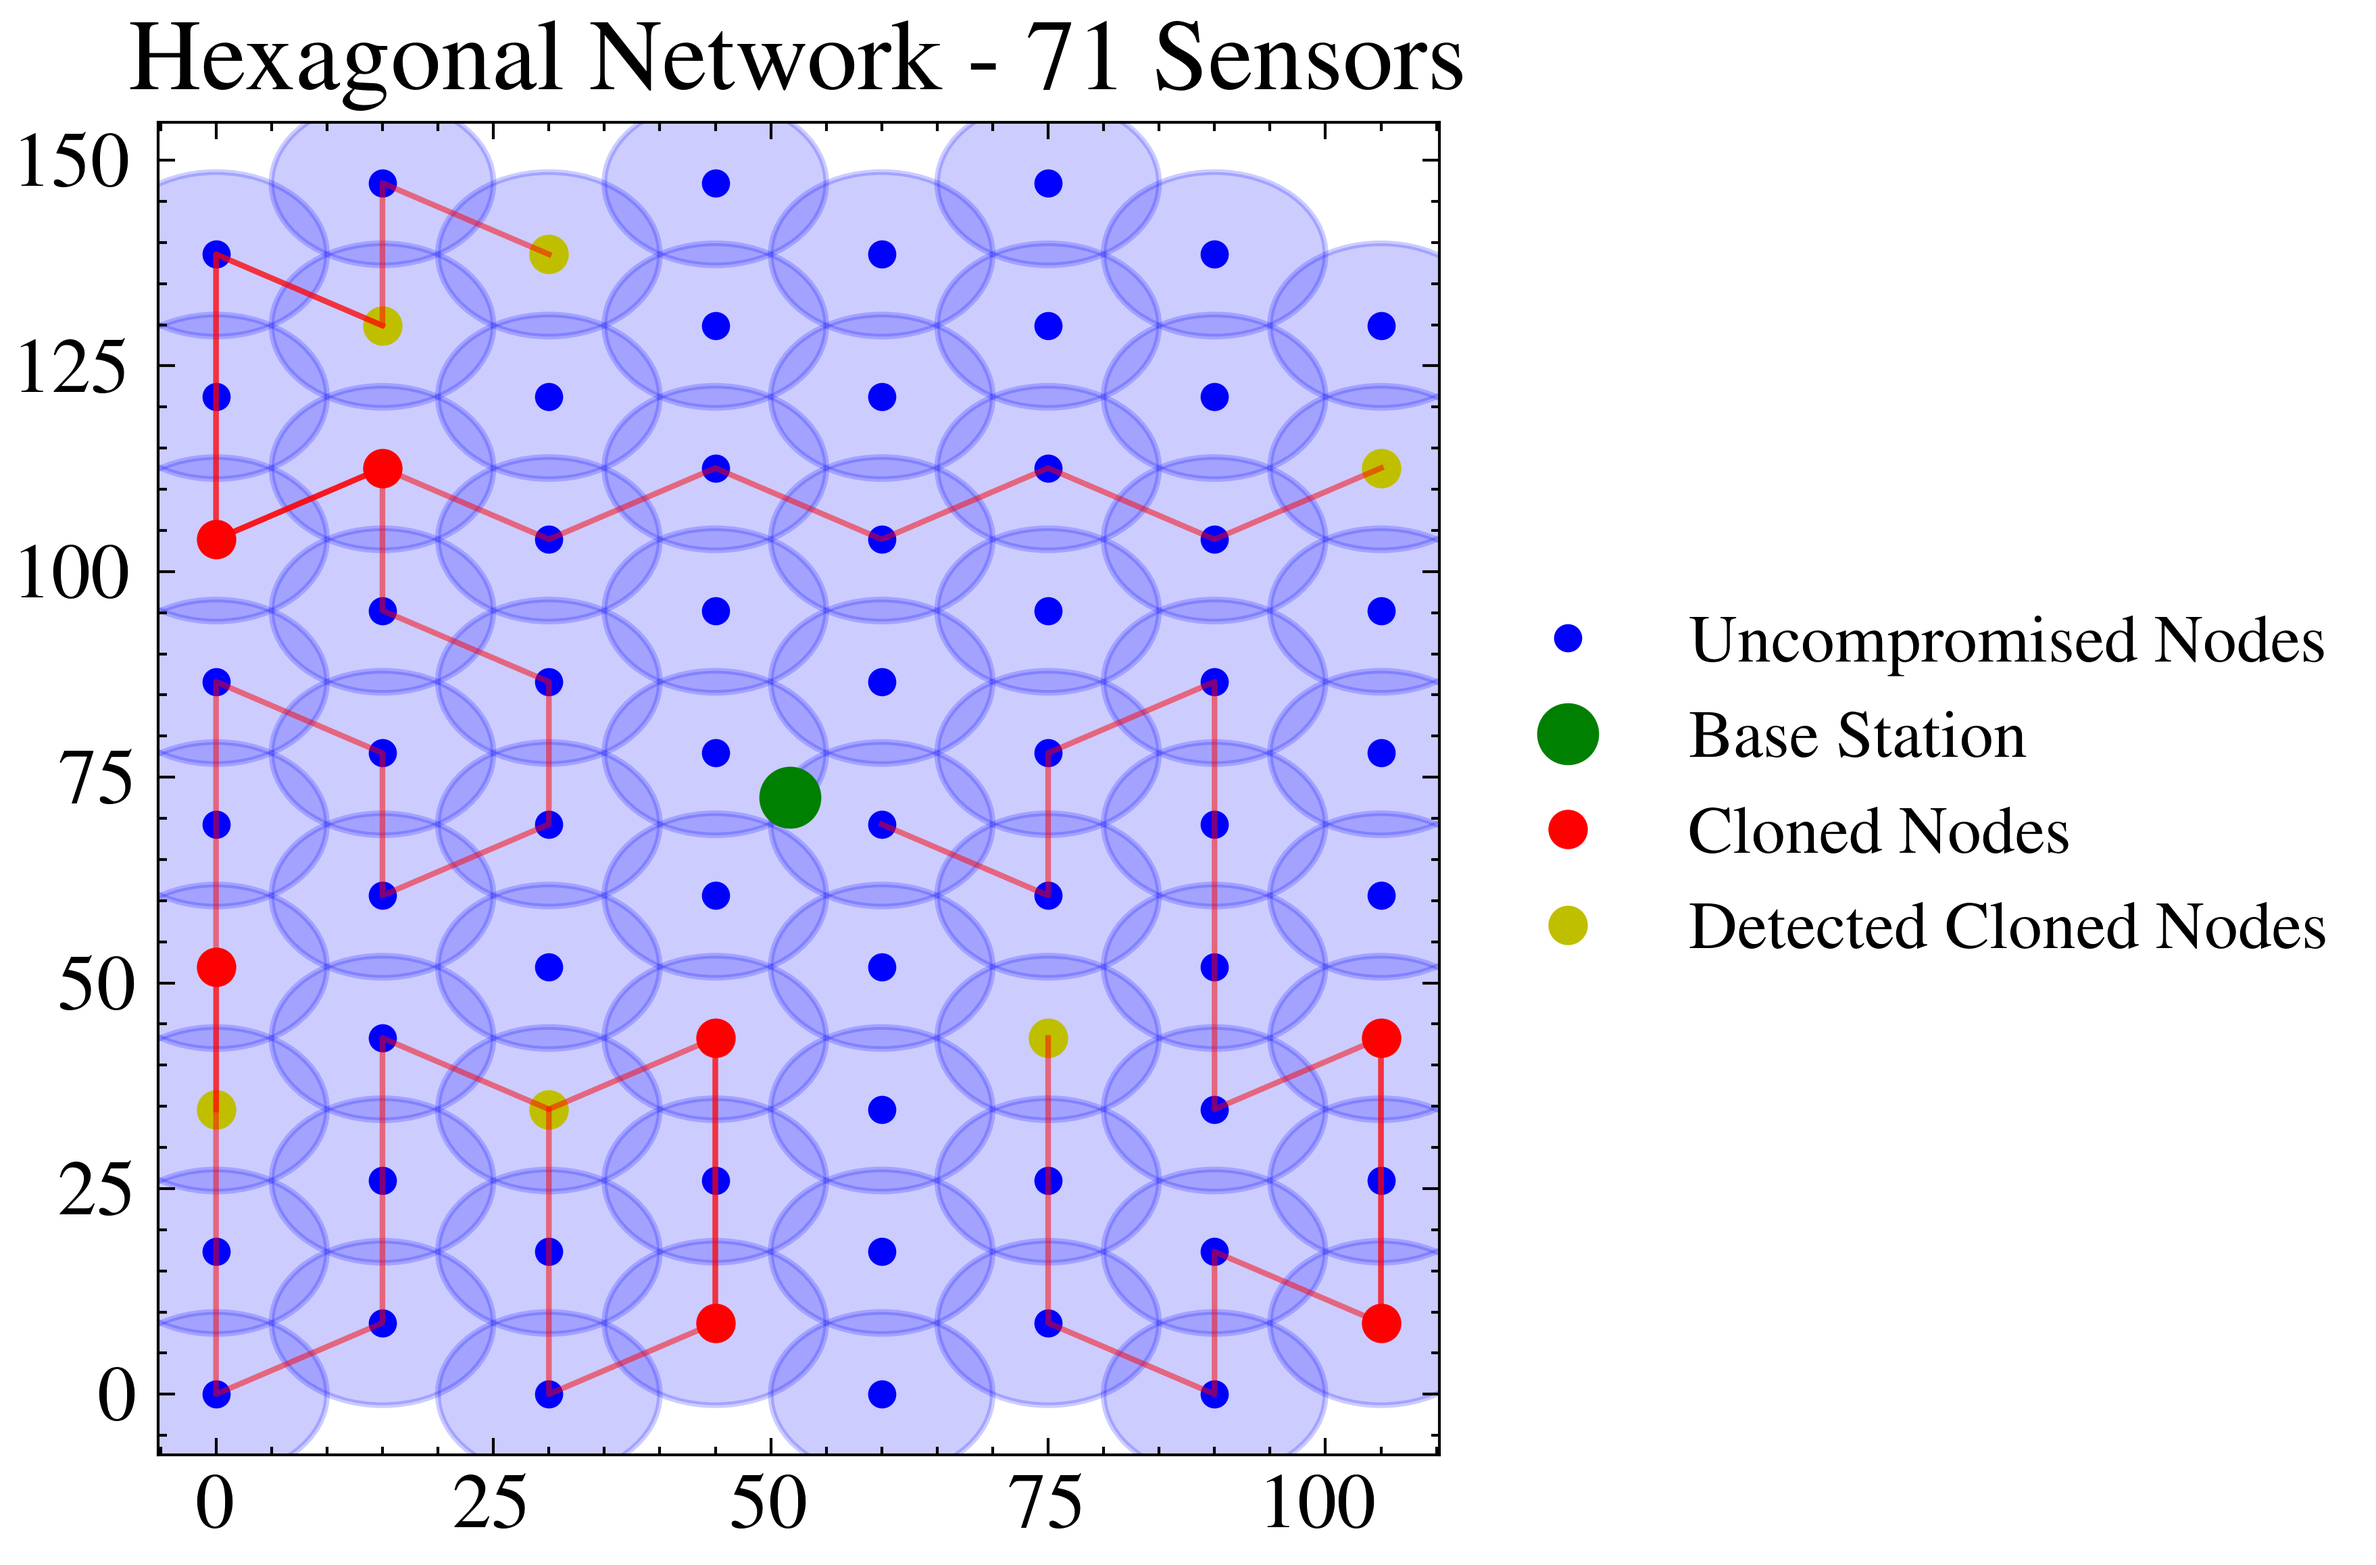
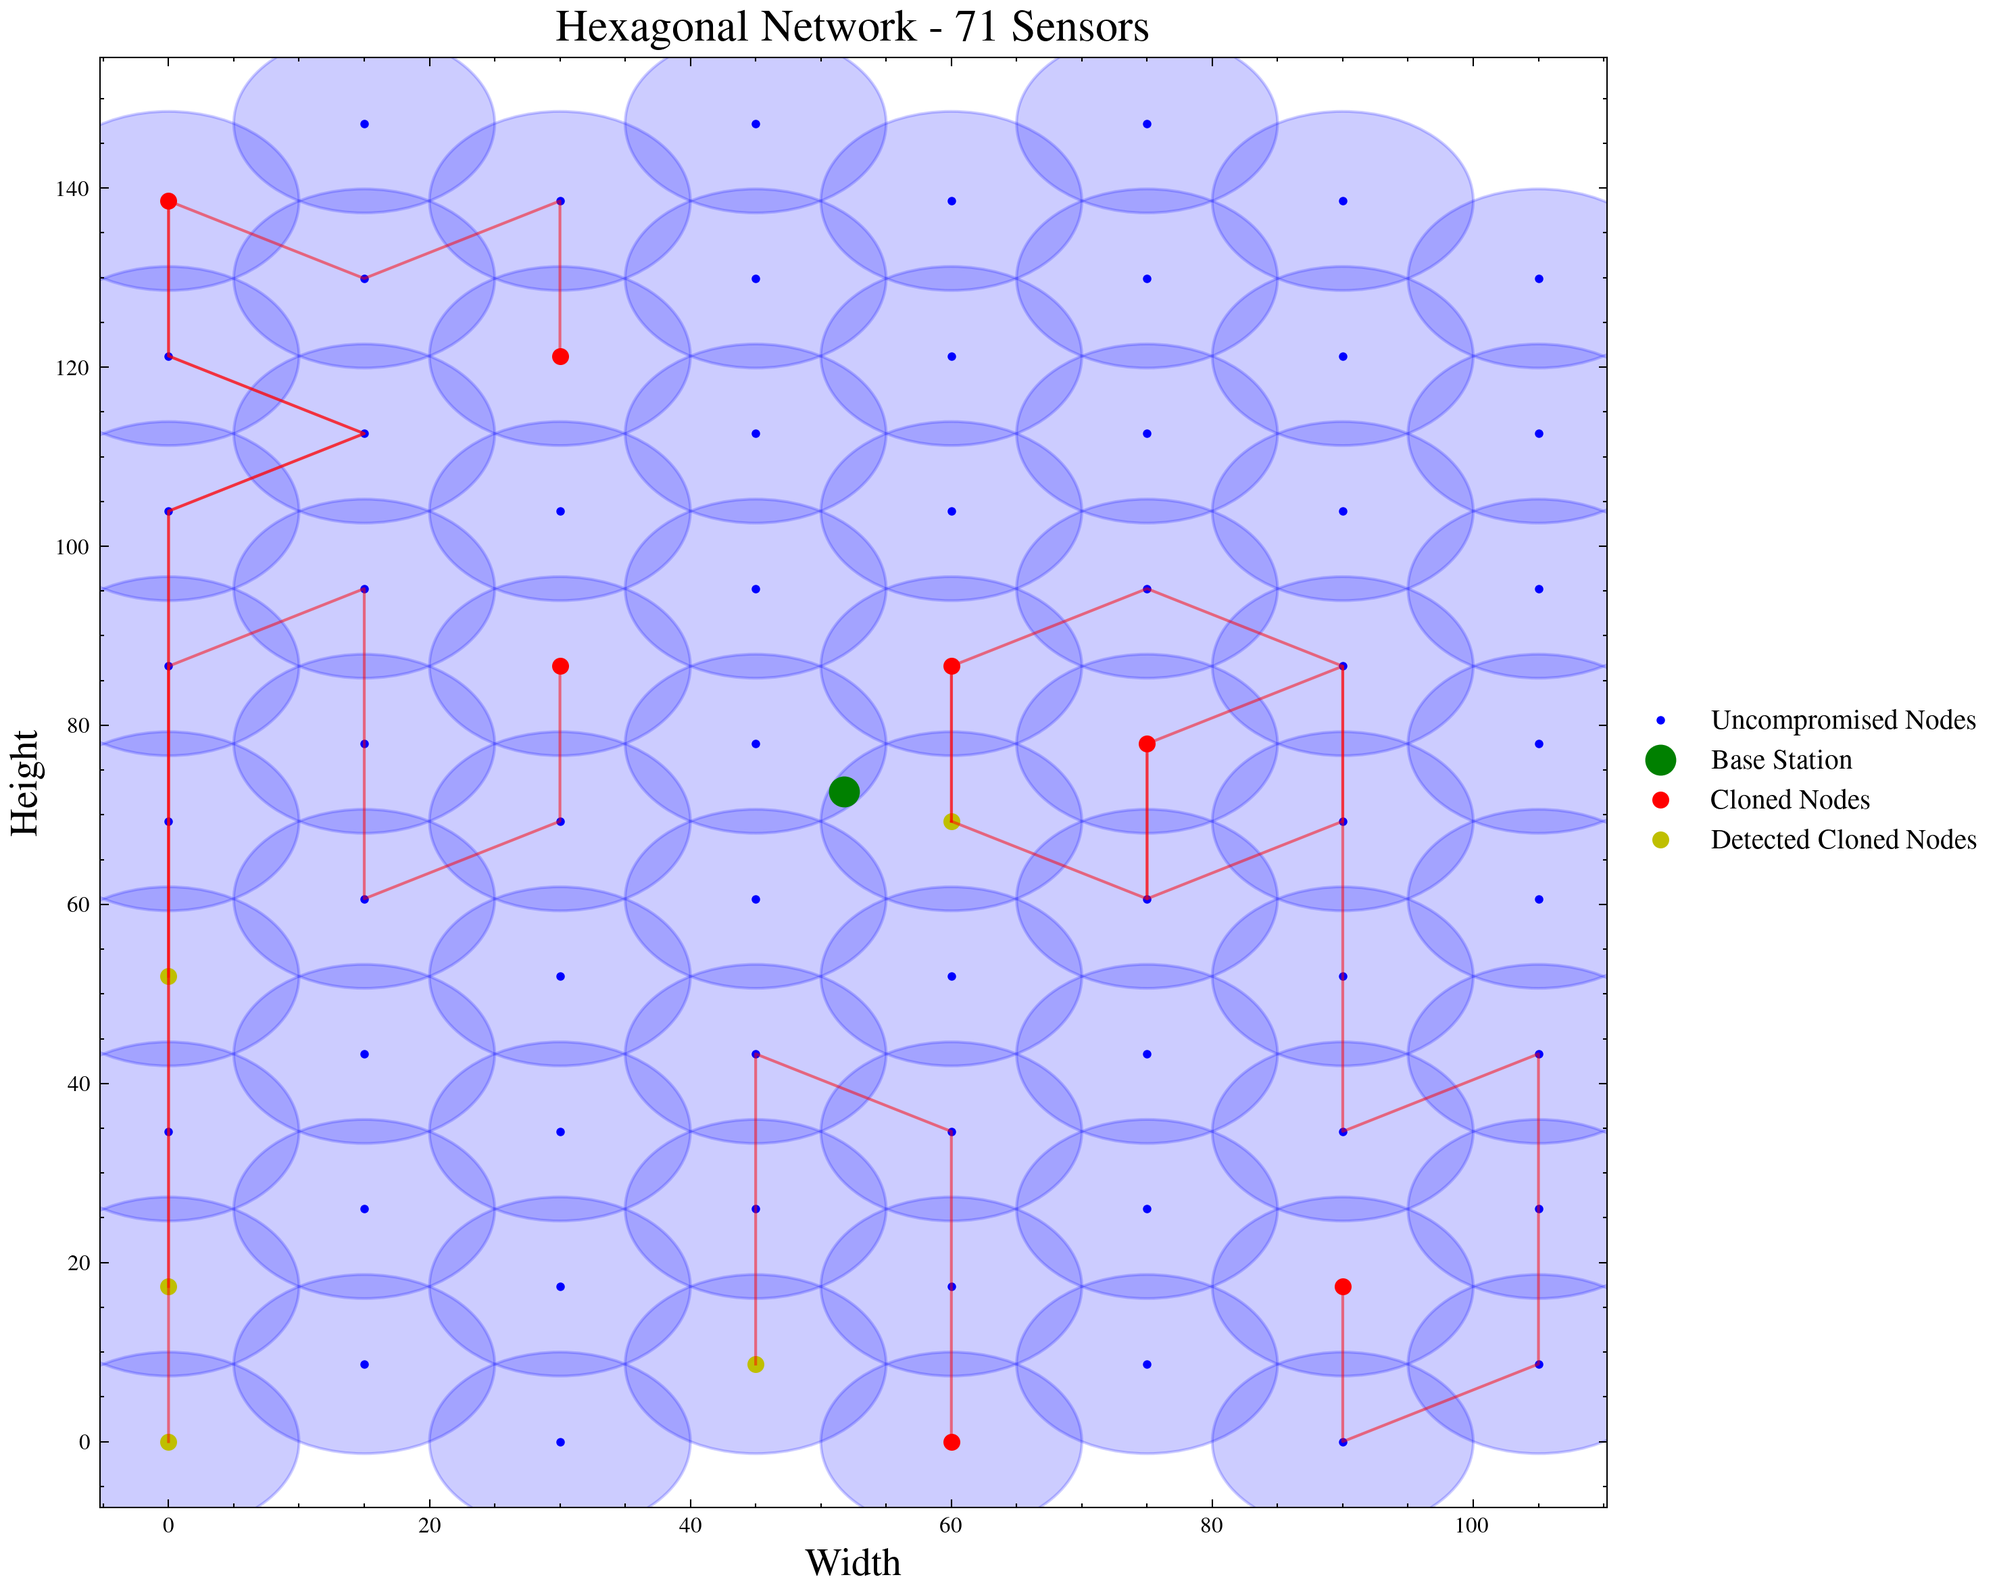
good update

diff --git a/SECURITY/mainfilesecuritybootleg.py b/SECURITY/mainfilesecuritybootleg.py
@@ -1,0 +1,229 @@
+import numpy as np
+import matplotlib.pyplot as plt
+import scienceplots
+import random
+import pandas as pd
+from network_generation import generate_aperiodic_network, generate_hexagonal_network, generate_triangular_network, generate_square_network
+
+plt.style.use(['science', 'ieee', 'high-vis'])
+plt.rcParams.update({'figure.dpi': '300'})
+
+# Parameters
+SENSOR_RADIUS = 10
+COMMUNICATION_RANGE = SENSOR_RADIUS * 2
+CLONE_PERCENTAGE = 0.10
+DETECTION_THRESHOLD = 0.1  # Probability threshold for detecting a cloned node
+
+def generate_networks(sensor_radius, num_sensors):
+    aperiodic_network = generate_aperiodic_network(sensor_radius, num_sensors, 3)
+    hexagonal_network = generate_hexagonal_network(num_sensors, sensor_radius)
+    triangular_network = generate_triangular_network(num_sensors, sensor_radius)
+    square_network = generate_square_network(num_sensors, sensor_radius)
+    return {
+        'Aperiodic': aperiodic_network,
+        'Hexagonal': hexagonal_network,
+        'Triangular': triangular_network,
+        'Square': square_network
+    }
+
+def get_cloned_positions(network, seed, clone_percentage):
+    random.seed(seed)
+    num_clones = int(len(network) * clone_percentage)
+    clone_indices = np.random.choice(len(network), num_clones, replace=False)
+    return [tuple(network[idx]) for idx in clone_indices]
+
+def simulate_clone_attack(network, clone_positions, base_station_position):
+    detections = 0
+    paths = []
+    total_intrusion_effort = 0
+    total_hops = 0
+    detected_clones = set()
+    compromised_nodes = set(clone_positions)
+    active_clones = set(clone_positions)
+
+    while active_clones:
+        new_active_clones = set()
+        for clone_position in active_clones:
+            if tuple(clone_position) in detected_clones or has_reached_base_station(clone_position, base_station_position):
+                continue
+            
+            path = [clone_position]
+            visited_nodes = set()
+            while not has_reached_base_station(clone_position, base_station_position):
+                visited_nodes.add(tuple(clone_position))
+                next_position, effort_of_intrusion, pattern_found = smart_random_walk(network, clone_position, visited_nodes)
+                if next_position is None:
+                    break
+                if np.linalg.norm(np.array(next_position) - np.array(clone_position)) > COMMUNICATION_RANGE:
+                    break
+                clone_position = next_position
+                compromised_nodes.add(tuple(clone_position))
+                path.append(clone_position)
+                total_intrusion_effort += effort_of_intrusion
+                total_hops += 1
+                if random.random() < DETECTION_THRESHOLD:
+                    detected_clones.add(tuple(clone_position))
+                    detections += 1
+                    break
+                if has_reached_base_station(clone_position, base_station_position):
+                    break
+            paths.append(path)
+            if not has_reached_base_station(clone_position, base_station_position) and tuple(clone_position) not in detected_clones:
+                new_active_clones.add(tuple(clone_position))
+        
+        active_clones = new_active_clones
+    
+    return detections, paths, total_intrusion_effort, total_hops, detected_clones, len(compromised_nodes)
+
+def smart_random_walk(network, intruder_position, visited_nodes):
+    distances = np.linalg.norm(np.array(network) - np.array(intruder_position), axis=1)
+    sorted_indices = np.argsort(distances)
+    for idx in sorted_indices:
+        nearest_node = network[idx]
+        if tuple(nearest_node) not in visited_nodes and np.linalg.norm(nearest_node - intruder_position) <= COMMUNICATION_RANGE:
+            effort_of_intrusion = calculate_intrusion_effort(nearest_node, intruder_position, network)
+            pattern_found = detect_pattern(nearest_node, network)
+            return nearest_node, effort_of_intrusion, pattern_found
+    return None, 0, False
+
+def calculate_intrusion_effort(nearest_node, current_node, network):
+    distance = np.linalg.norm(np.array(nearest_node) - np.array(current_node))
+    unique_angles, unique_distances = get_unique_angles_distances(current_node, network)
+    complexity_factor = len(unique_angles) + len(unique_distances)
+    return distance / SENSOR_RADIUS * complexity_factor
+
+def get_unique_angles_distances(current_node, network):
+    current_node = np.array(current_node)
+    unique_angles = set()
+    unique_distances = set()
+    
+    for node in network:
+        node = np.array(node)
+        vector = node - current_node
+        distance = np.linalg.norm(vector)
+        unique_distances.add(distance)
+        
+        angle = np.degrees(np.arctan2(vector[1], vector[0]))
+        if angle < 0:
+            angle += 360
+        unique_angles.add(angle)
+    
+    return unique_angles, unique_distances
+
+def detect_pattern(current_node, network):
+    unique_angles, unique_distances = get_unique_angles_distances(current_node, network)
+    return len(unique_angles), len(unique_distances)  # Return actual values for debugging
+
+def has_reached_base_station(position, base_station_position):
+    return np.linalg.norm(np.array(position) - np.array(base_station_position)) <= SENSOR_RADIUS
+
+def plot_network_with_paths(network, paths, clone_positions, detected_clones, base_station_position, title, save_fig=False):
+    fig, ax = plt.subplots(figsize=(10, 8))
+    network = np.array(network)
+    
+    # Plot sensors and their ranges
+    for node in network:
+        sensor_circle = plt.Circle(node, SENSOR_RADIUS, color='blue', alpha=0.2)
+        ax.add_artist(sensor_circle)
+        plt.plot(node[0], node[1], 'bo', markersize=2, label='Uncompromised Nodes' if 'Uncompromised Nodes' not in plt.gca().get_legend_handles_labels()[1] else "")
+    
+    # Plot base station
+    plt.plot(base_station_position[0], base_station_position[1], 'go', markersize=10, label='Base Station')
+    
+    # Plot cloned nodes
+    for pos in clone_positions:
+        plt.plot(pos[0], pos[1], 'ro', markersize=5, label='Cloned Nodes' if 'Cloned Nodes' not in plt.gca().get_legend_handles_labels()[1] else "")
+    
+    # Plot detected cloned nodes
+    for pos in detected_clones:
+        plt.plot(pos[0], pos[1], 'yo', markersize=5, label='Detected Cloned Nodes' if 'Detected Cloned Nodes' not in plt.gca().get_legend_handles_labels()[1] else "")
+    
+    # Plot paths
+    for path in paths:
+        path = np.array(path)
+        plt.plot(path[:, 0], path[:, 1], 'r-', linewidth=1, alpha=0.5)
+
+    plt.title(title, fontsize=16, fontweight='bold')
+    plt.xlabel('Width', fontsize=14)
+    plt.ylabel('Height', fontsize=14)
+    plt.legend(fontsize=10, loc='center left', bbox_to_anchor=(1, 0.5))
+    plt.tight_layout()
+
+    if save_fig:
+        plt.savefig(f'figures/{title}.png', dpi=300)
+
+    plt.show()
+
+def run_simulation(num_sensors=71, num_iterations=1, num_rounds=10000, save_fig=False):
+    sensor_radius = SENSOR_RADIUS
+    networks = generate_networks(sensor_radius, num_sensors)
+    results = {network_type: {'detections': 0, 'paths': [], 'total_intrusion_effort': 0, 'total_hops': 0, 'base_station_reached': 0, 'detected_clones': set(), 'compromised_nodes': 0} for network_type in networks.keys()}
+    
+    for network_type, network in networks.items():
+        unique_angles_set = set()
+        unique_distances_set = set()
+        for node in network:
+            unique_angles, unique_distances = get_unique_angles_distances(node, network)
+            unique_angles_set.update(unique_angles)
+            unique_distances_set.update(unique_distances)
+        print(f"{network_type} Network: Unique Angles = {len(unique_angles_set)}, Unique Distances = {len(unique_distances_set)}")
+    
+    for round_idx in range(num_rounds):
+        print(f"Round {round_idx + 1}")
+        round_seed = round_idx  # Use round index as the seed for consistency
+        clone_positions_per_network = {network_type: get_cloned_positions(network, round_seed, CLONE_PERCENTAGE) for network_type, network in networks.items()}
+        
+        for network_type, network in networks.items():
+            clone_positions = clone_positions_per_network[network_type]
+            for iteration in range(num_iterations):
+                detections, paths, total_intrusion_effort, total_hops, detected_clones, compromised_nodes = simulate_clone_attack(network, clone_positions, tuple(np.mean(network, axis=0)))
+                results[network_type]['detections'] += detections
+                results[network_type]['paths'].extend(paths)
+                results[network_type]['total_intrusion_effort'] += total_intrusion_effort
+                results[network_type]['total_hops'] += total_hops
+                results[network_type]['detected_clones'].update(detected_clones)
+                results[network_type]['compromised_nodes'] += compromised_nodes
+                if has_reached_base_station(paths[-1][-1], tuple(np.mean(network, axis=0))):
+                    results[network_type]['base_station_reached'] += 1
+            if round_idx == 0 and iteration == 0:
+                plot_network_with_paths(network, results[network_type]['paths'], clone_positions, results[network_type]['detected_clones'], tuple(np.mean(network, axis=0)), f'{network_type} Network - {num_sensors} Sensors', save_fig)
+    
+    for network_type in results.keys():
+        print(f"{network_type} Network: {results[network_type]['detections']} detections, {results[network_type]['base_station_reached']} base stations reached out of {num_iterations * num_rounds} total rounds")
+        print(f"Average total intrusion effort: {results[network_type]['total_intrusion_effort'] / (num_iterations * num_rounds)}")
+        print(f"Average total hops: {results[network_type]['total_hops'] / (num_iterations * num_rounds)}")
+        print(f"Average total detected cloned nodes: {len(results[network_type]['detected_clones'])} / {num_iterations * num_rounds}")
+        print(f"Average total compromised nodes: {results[network_type]['compromised_nodes'] / (num_iterations * num_rounds)}")
+        print(f"Base station reached percentage: {(results[network_type]['base_station_reached'] / (num_iterations * num_rounds)) * 100}%")
+    
+    plot_metrics(results, num_rounds, num_sensors, save_fig)
+
+def plot_metrics(results, num_rounds, num_sensors, save_fig=False):
+    metrics = ['Average Intrusion Effort', 'Average Hops', 'Base Station Reached Percentage', 'Average Compromised Nodes', 'Average Detections']
+    data = []
+
+    for network_type, network_results in results.items():
+        data.append({'Network Type': network_type, 'Metric': 'Average Intrusion Effort', 'Value': network_results['total_intrusion_effort'] / num_rounds})
+        data.append({'Network Type': network_type, 'Metric': 'Average Hops', 'Value': network_results['total_hops'] / num_rounds})
+        data.append({'Network Type': network_type, 'Metric': 'Base Station Reached Percentage', 'Value': (network_results['base_station_reached'] / num_rounds) * 100})
+        data.append({'Network Type': network_type, 'Metric': 'Average Compromised Nodes', 'Value': network_results['compromised_nodes'] / num_rounds})
+        data.append({'Network Type': network_type, 'Metric': 'Average Detections', 'Value': network_results['detections'] / num_rounds})
+    
+    df = pd.DataFrame(data)
+
+    colors = ['tab:red', 'tab:blue', 'tab:green', 'tab:orange', 'tab:purple']
+    
+    for metric, color in zip(metrics, colors):
+        plt.figure(figsize=(10, 4))
+        subset = df[df['Metric'] == metric]
+        plt.plot(subset['Network Type'], subset['Value'], marker='o', linestyle='-', color=color, label=metric)
+        plt.title(f'{metric} for Each Topology Over {num_rounds} Rounds: {int(CLONE_PERCENTAGE*100)}\% Clones, {num_sensors} Sensors', fontsize=16, fontweight='bold')
+        plt.xlabel('Network Topology', fontsize=14)
+        plt.ylabel(metric, fontsize=14)
+        plt.tight_layout()
+        if save_fig:
+            plt.savefig(f'figures/{metric}_for_Each_Topology_Over_{num_rounds}_Rounds_Clone_Percentage_{int(CLONE_PERCENTAGE*100)}_Sensors_{num_sensors}.png', dpi=300)
+        plt.show()
+
+if __name__ == "__main__":
+    run_simulation(num_iterations=1, num_rounds=10000, save_fig=True)
